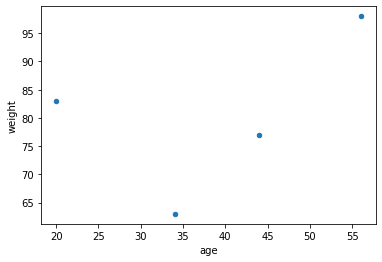
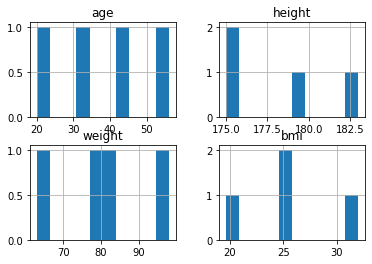
Update documentation

Changed region(s): [[0.0, 0.0, 1.0, 0.9771]]

diff --git a/04_data.html b/04_data.html
@@ -49,8 +49,6 @@ const thebe_selector_input = "pre"
 const thebe_selector_output = ".output, .cell_output"
 </script>
     <script async="async" src="_static/sphinx-thebe.js"></script>
-    <script src="https://cdnjs.cloudflare.com/ajax/libs/require.js/2.3.4/require.min.js"></script>
-    <script src="https://unpkg.com/@jupyter-widgets/html-manager@^0.20.1/dist/embed-amd.js"></script>
     <script>window.MathJax = {"options": {"ignoreHtmlClass": "never-ignore", "processHtmlClass": "tex2jax_process|mathjax_process|math|output_area"}, "tex2jax": {"ignoreClass": "never-ignore"}}</script>
     <script defer="defer" src="https://cdn.jsdelivr.net/npm/mathjax@3/es5/tex-mml-chtml.js"></script>
     <link rel="index" title="Index" href="genindex.html" />
@@ -885,32 +883,127 @@ dtype: int64
 <span class="p">{</span><span class="s1">&#39;age&#39;</span><span class="p">:</span> <span class="p">[</span><span class="mi">20</span><span class="p">,</span> <span class="mi">34</span><span class="p">,</span> <span class="mi">56</span><span class="p">,</span> <span class="n">np</span><span class="o">.</span><span class="n">nan</span><span class="p">,</span> <span class="mi">44</span><span class="p">],</span>
  <span class="s1">&#39;weight&#39;</span><span class="p">:</span> <span class="p">[</span><span class="mi">83</span><span class="p">,</span> <span class="mi">63</span><span class="p">,</span> <span class="mi">98</span><span class="p">,</span>  <span class="mi">50</span><span class="p">,</span> <span class="mi">77</span><span class="p">]</span>
 <span class="p">})</span>
-<span class="nb">print</span><span class="p">(</span><span class="s1">&#39;10.</span><span class="se">\n</span><span class="s1">&#39;</span><span class="p">,</span> <span class="n">my_df</span><span class="o">.</span><span class="n">merge</span><span class="p">(</span><span class="n">df2</span><span class="p">))</span>
 <span class="n">my_df</span> <span class="o">=</span> <span class="n">my_df</span><span class="o">.</span><span class="n">merge</span><span class="p">(</span><span class="n">df2</span><span class="p">)</span>
+<span class="n">my_df</span>
+</pre></div>
+</div>
+</div>
+<div class="cell_output docutils container">
+<div class="output text_html"><div>
+<style scoped>
+    .dataframe tbody tr th:only-of-type {
+        vertical-align: middle;
+    }
 
-<span class="c1"># correlation matrix</span>
-<span class="nb">print</span><span class="p">(</span><span class="s1">&#39;11.</span><span class="se">\n</span><span class="s1">&#39;</span><span class="p">,</span> <span class="n">my_df</span><span class="o">.</span><span class="n">corr</span><span class="p">())</span>
+    .dataframe tbody tr th {
+        vertical-align: top;
+    }
 
-<span class="c1"># adding new columns</span>
+    .dataframe thead th {
+        text-align: right;
+    }
+</style>
+<table border="1" class="dataframe">
+  <thead>
+    <tr style="text-align: right;">
+      <th></th>
+      <th>age</th>
+      <th>height</th>
+      <th>weight</th>
+    </tr>
+  </thead>
+  <tbody>
+    <tr>
+      <th>0</th>
+      <td>20.0</td>
+      <td>183.0</td>
+      <td>83</td>
+    </tr>
+    <tr>
+      <th>1</th>
+      <td>34.0</td>
+      <td>179.0</td>
+      <td>63</td>
+    </tr>
+    <tr>
+      <th>2</th>
+      <td>56.0</td>
+      <td>175.0</td>
+      <td>98</td>
+    </tr>
+    <tr>
+      <th>3</th>
+      <td>44.0</td>
+      <td>175.0</td>
+      <td>77</td>
+    </tr>
+  </tbody>
+</table>
+</div></div></div>
+</div>
+<div class="cell docutils container">
+<div class="cell_input docutils container">
+<div class="highlight-ipython3 notranslate"><div class="highlight"><pre><span></span><span class="c1"># correlation matrix</span>
+<span class="n">my_df</span><span class="o">.</span><span class="n">corr</span><span class="p">()</span>
+</pre></div>
+</div>
+</div>
+<div class="cell_output docutils container">
+<div class="output text_html"><div>
+<style scoped>
+    .dataframe tbody tr th:only-of-type {
+        vertical-align: middle;
+    }
+
+    .dataframe tbody tr th {
+        vertical-align: top;
+    }
+
+    .dataframe thead th {
+        text-align: right;
+    }
+</style>
+<table border="1" class="dataframe">
+  <thead>
+    <tr style="text-align: right;">
+      <th></th>
+      <th>age</th>
+      <th>height</th>
+      <th>weight</th>
+    </tr>
+  </thead>
+  <tbody>
+    <tr>
+      <th>age</th>
+      <td>1.000000</td>
+      <td>-0.946549</td>
+      <td>0.481176</td>
+    </tr>
+    <tr>
+      <th>height</th>
+      <td>-0.946549</td>
+      <td>1.000000</td>
+      <td>-0.282126</td>
+    </tr>
+    <tr>
+      <th>weight</th>
+      <td>0.481176</td>
+      <td>-0.282126</td>
+      <td>1.000000</td>
+    </tr>
+  </tbody>
+</table>
+</div></div></div>
+</div>
+<div class="cell docutils container">
+<div class="cell_input docutils container">
+<div class="highlight-ipython3 notranslate"><div class="highlight"><pre><span></span><span class="c1"># adding new columns</span>
 <span class="n">my_df</span> <span class="o">=</span> <span class="n">my_df</span><span class="o">.</span><span class="n">assign</span><span class="p">(</span><span class="n">bmi</span> <span class="o">=</span> <span class="n">my_df</span><span class="o">.</span><span class="n">weight</span><span class="o">/</span><span class="p">(</span><span class="n">my_df</span><span class="o">.</span><span class="n">height</span><span class="o">/</span><span class="mi">100</span><span class="p">)</span><span class="o">**</span><span class="mi">2</span><span class="p">)</span>
 <span class="n">my_df</span>
 </pre></div>
 </div>
 </div>
 <div class="cell_output docutils container">
-<div class="output stream highlight-myst-ansi notranslate"><div class="highlight"><pre><span></span>10.
-     age  height  weight
-0  20.0   183.0      83
-1  34.0   179.0      63
-2  56.0   175.0      98
-3  44.0   175.0      77
-11.
-              age    height    weight
-age     1.000000 -0.946549  0.481176
-height -0.946549  1.000000 -0.282126
-weight  0.481176 -0.282126  1.000000
-</pre></div>
-</div>
 <div class="output text_html"><div>
 <style scoped>
     .dataframe tbody tr th:only-of-type {
@@ -1143,7 +1236,7 @@ weight  0.481176 -0.282126  1.000000
         &lt;AxesSubplot:title={&#39;center&#39;:&#39;bmi&#39;}&gt;]], dtype=object)
 </pre></div>
 </div>
-<img alt="_images/04_data_19_1.png" src="_images/04_data_19_1.png" />
+<img alt="_images/04_data_21_1.png" src="_images/04_data_21_1.png" />
 </div>
 </div>
 <div class="cell docutils container">
@@ -1157,7 +1250,7 @@ weight  0.481176 -0.282126  1.000000
 <div class="output text_plain highlight-myst-ansi notranslate"><div class="highlight"><pre><span></span>&lt;AxesSubplot:xlabel=&#39;age&#39;&gt;
 </pre></div>
 </div>
-<img alt="_images/04_data_20_1.png" src="_images/04_data_20_1.png" />
+<img alt="_images/04_data_22_1.png" src="_images/04_data_22_1.png" />
 </div>
 </div>
 <div class="cell docutils container">
@@ -1171,7 +1264,7 @@ weight  0.481176 -0.282126  1.000000
 <div class="output text_plain highlight-myst-ansi notranslate"><div class="highlight"><pre><span></span>&lt;AxesSubplot:xlabel=&#39;age&#39;, ylabel=&#39;weight&#39;&gt;
 </pre></div>
 </div>
-<img alt="_images/04_data_21_1.png" src="_images/04_data_21_1.png" />
+<img alt="_images/04_data_23_1.png" src="_images/04_data_23_1.png" />
 </div>
 </div>
 </div>
@@ -1338,7 +1431,7 @@ makes a total of 0 missing values
 <div class="output text_plain highlight-myst-ansi notranslate"><div class="highlight"><pre><span></span>&lt;AxesSubplot:xlabel=&#39;Datetime&#39;&gt;
 </pre></div>
 </div>
-<img alt="_images/04_data_35_1.png" src="_images/04_data_35_1.png" />
+<img alt="_images/04_data_37_1.png" src="_images/04_data_37_1.png" />
 </div>
 </div>
 <div class="cell docutils container">

diff --git a/01_content.html b/01_content.html
@@ -49,8 +49,6 @@ const thebe_selector_input = "pre"
 const thebe_selector_output = ".output, .cell_output"
 </script>
     <script async="async" src="_static/sphinx-thebe.js"></script>
-    <script src="https://cdnjs.cloudflare.com/ajax/libs/require.js/2.3.4/require.min.js"></script>
-    <script src="https://unpkg.com/@jupyter-widgets/html-manager@^0.20.1/dist/embed-amd.js"></script>
     <link rel="index" title="Index" href="genindex.html" />
     <link rel="search" title="Search" href="search.html" />
     <link rel="next" title="What is Python and why use it?" href="02_general.html" />

diff --git a/genindex.html b/genindex.html
@@ -49,8 +49,6 @@ const thebe_selector_input = "pre"
 const thebe_selector_output = ".output, .cell_output"
 </script>
     <script async="async" src="_static/sphinx-thebe.js"></script>
-    <script src="https://cdnjs.cloudflare.com/ajax/libs/require.js/2.3.4/require.min.js"></script>
-    <script src="https://unpkg.com/@jupyter-widgets/html-manager@^0.20.1/dist/embed-amd.js"></script>
     <link rel="index" title="Index" href="#" />
     <link rel="search" title="Search" href="search.html" />
     <meta name="viewport" content="width=device-width, initial-scale=1" />

diff --git a/search.html b/search.html
@@ -50,8 +50,6 @@ const thebe_selector_input = "pre"
 const thebe_selector_output = ".output, .cell_output"
 </script>
     <script async="async" src="_static/sphinx-thebe.js"></script>
-    <script src="https://cdnjs.cloudflare.com/ajax/libs/require.js/2.3.4/require.min.js"></script>
-    <script src="https://unpkg.com/@jupyter-widgets/html-manager@^0.20.1/dist/embed-amd.js"></script>
     <script src="_static/searchtools.js"></script>
     <script src="_static/language_data.js"></script>
     <link rel="index" title="Index" href="genindex.html" />
